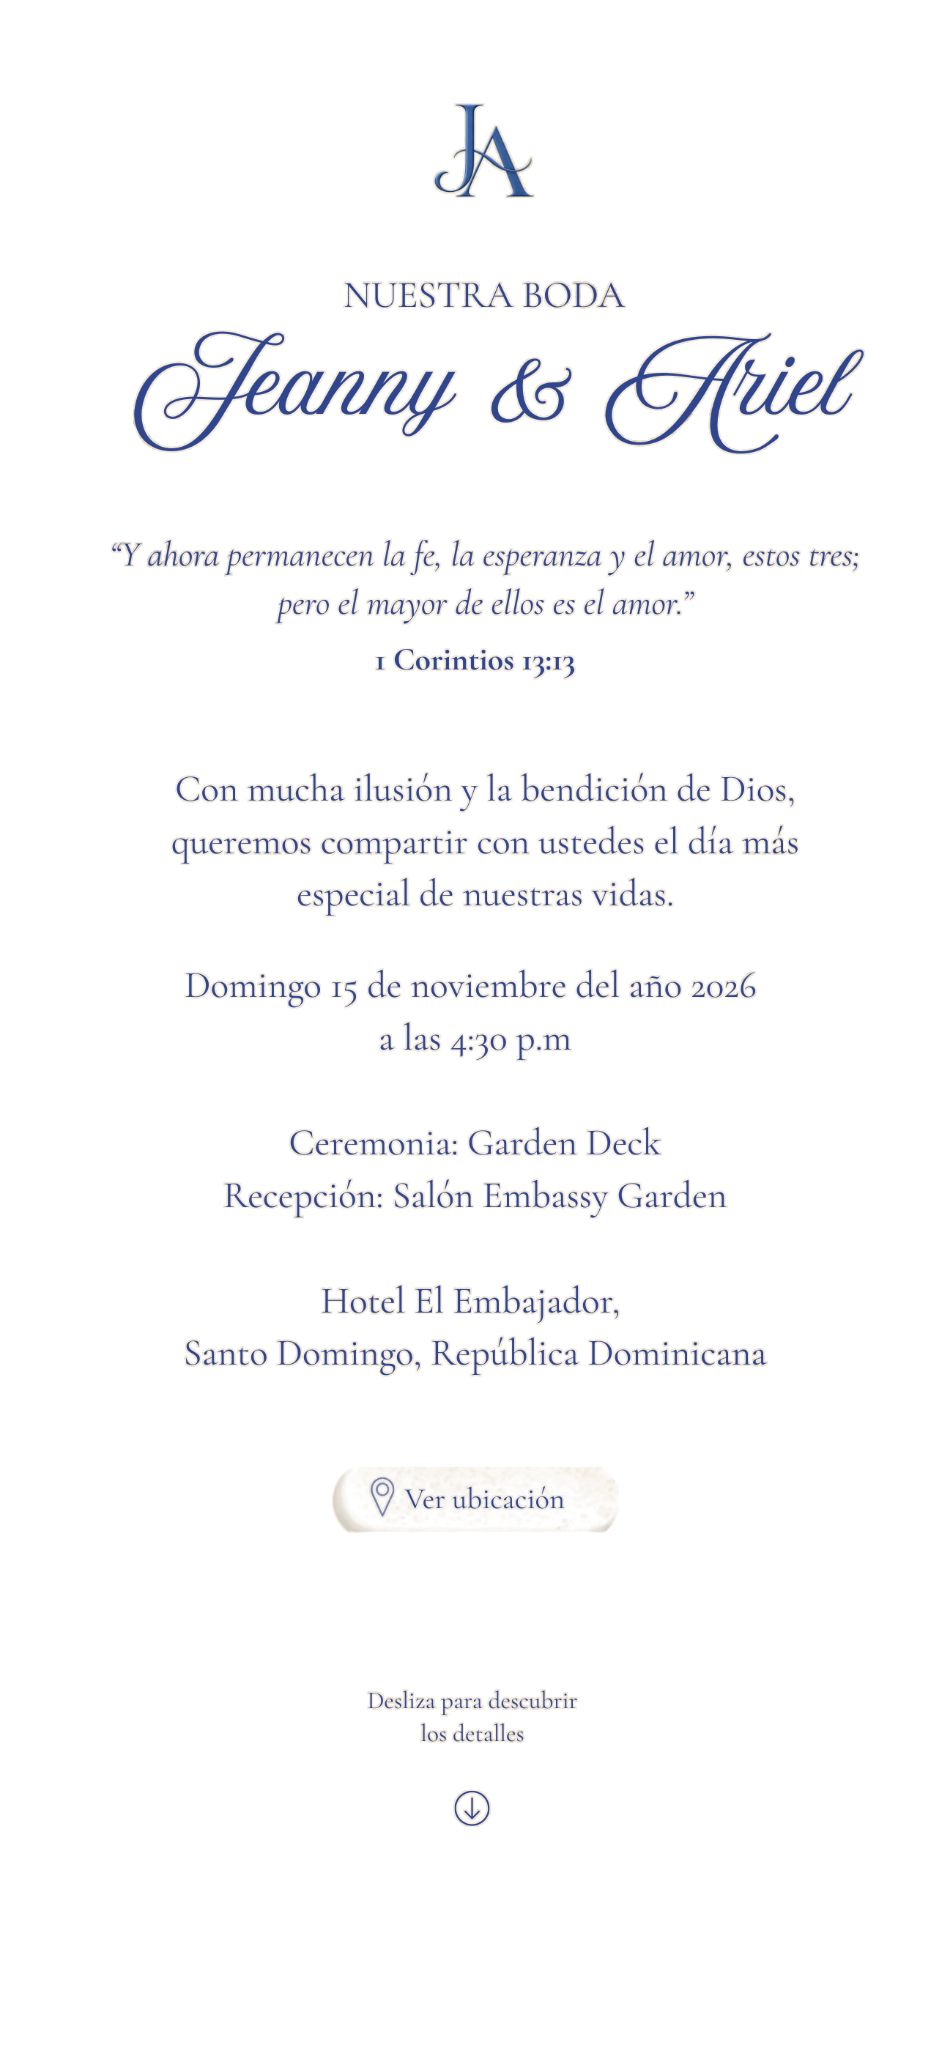
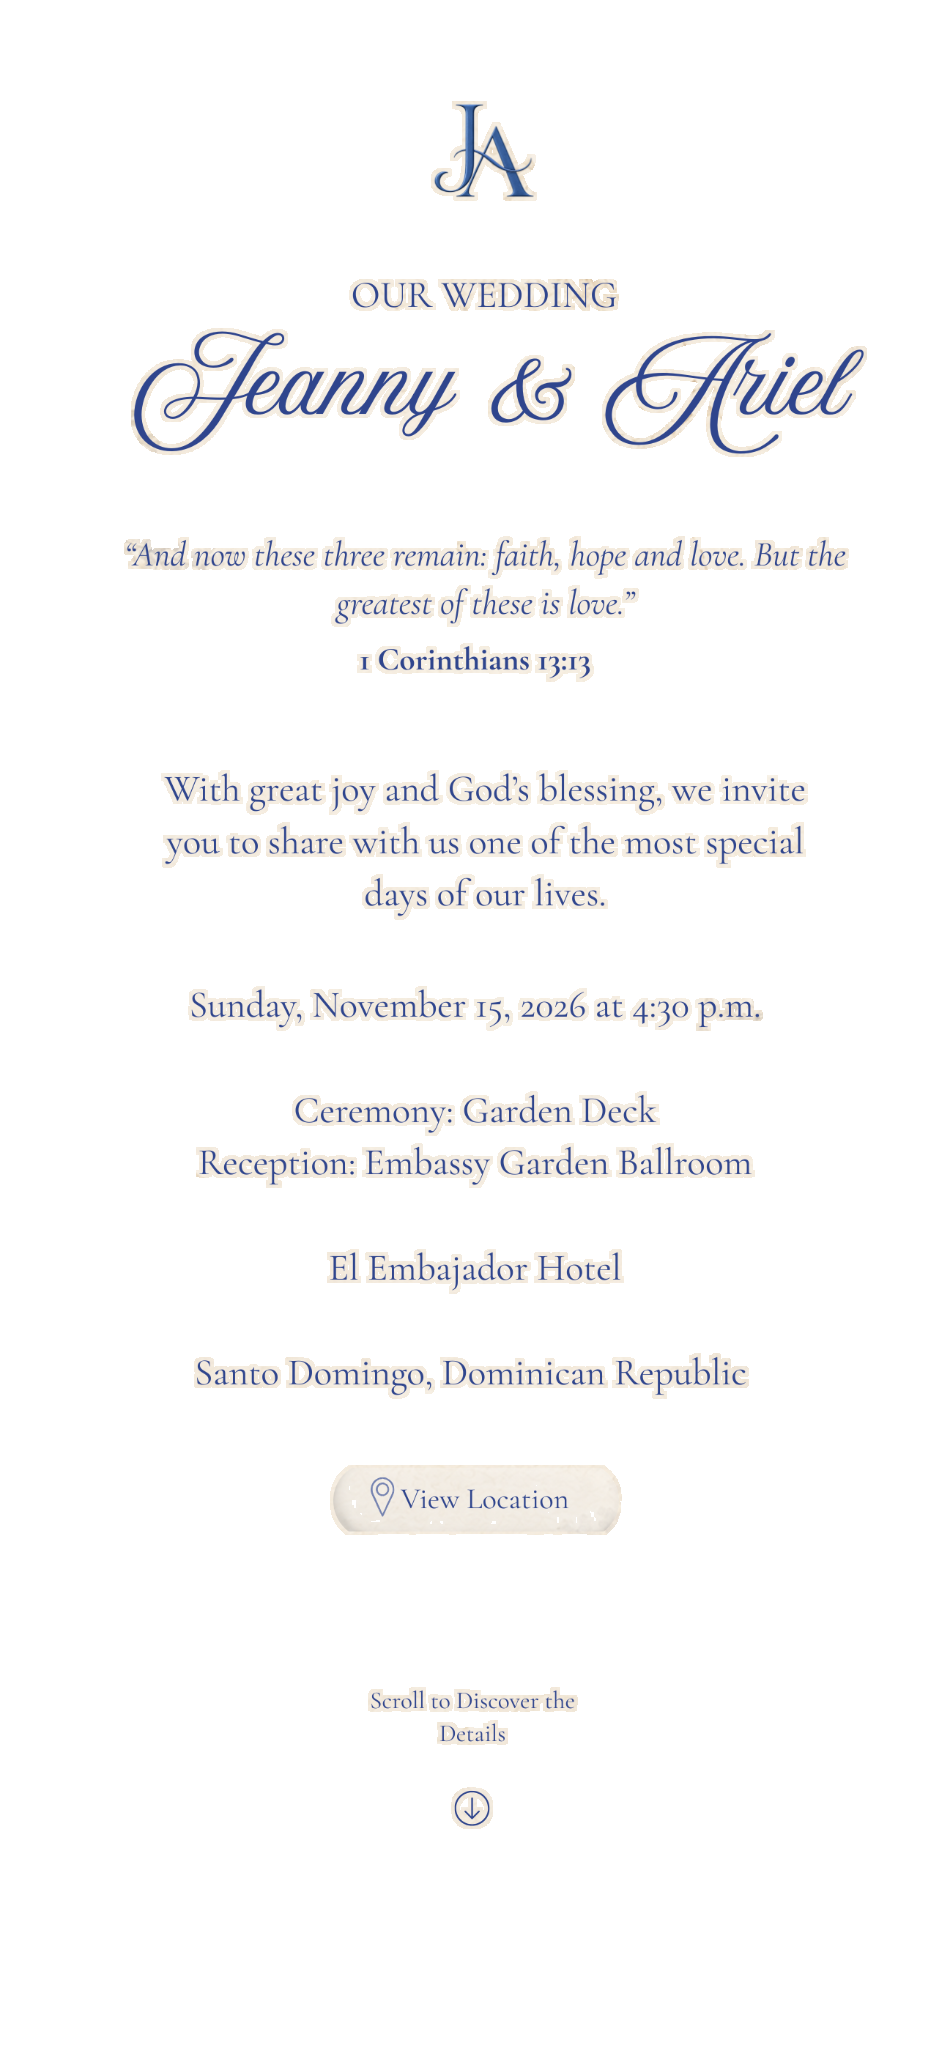
Add files via upload

diff --git a/index.html b/index.html
@@ -1,10 +1,15 @@
 <!doctype html>
-<html lang="es">
+<html lang="en">
 <head>
 <meta charset="utf-8">
 <meta name="viewport" content="width=device-width,initial-scale=1,viewport-fit=cover">
 <meta name="theme-color" content="#f7f1e7">
-<title>Jeanny & Ariel · V26</title>
+<title>Jeanny & Ariel · 15.11.2026</title>
+<meta name="description" content="Jeanny & Ariel · Wedding Invitation · November 15, 2026">
+<meta property="og:type" content="website">
+<meta property="og:title" content="Jeanny & Ariel · 15.11.2026">
+<meta property="og:description" content="Wedding Invitation · November 15, 2026">
+<meta property="og:url" content="https://portiaeventos.github.io/jeanny-ariel-wedding-invitation/">
 <style>
 :root{--max:944px}
 *{box-sizing:border-box}
@@ -70,6 +75,12 @@ body.locked{overflow:hidden}
 .p5-amazon{clip-path:inset(47% 15% 36% 15%)}
 .p5-adults{clip-path:inset(61% 15% 23% 15%)}
 
+/* V24 effect from page 3 onward: one soft reveal for the complete text/art overlay.
+   V32 clean backgrounds and full-page dimensions remain unchanged, so nothing is clipped. */
+.v24-reveal{position:absolute;inset:0;z-index:5;pointer-events:none;opacity:.18;transform:translateY(18px) scale(.992);filter:blur(1.5px);transition:opacity 1.05s ease,transform 1.2s cubic-bezier(.2,.7,.25,1),filter .8s ease;will-change:opacity,transform,filter}
+.v24-reveal img{position:absolute;inset:0;width:100%;height:100%;object-fit:cover}
+.v24-reveal.show{opacity:1;transform:translateY(0) scale(1);filter:blur(0)}
+
 /* clickable areas */
 .hotspot{position:absolute;z-index:30;display:block;border:0;background:transparent;border-radius:999px;cursor:pointer;touch-action:manipulation;-webkit-tap-highlight-color:transparent}
 #openBtn{left:28%;top:52%;width:44%;height:12%}
@@ -113,7 +124,7 @@ body.locked{overflow:hidden}
 <audio id="music" preload="auto" loop playsinline webkit-playsinline>
   <source src="assets/musica.mp3" type="audio/mpeg">
 </audio>
-<button class="audio-toggle" id="audioToggle" aria-label="Silenciar música">♪</button>
+<button class="audio-toggle" id="audioToggle" aria-label="Mute music">♪</button>
 
 <div class="cover" id="cover">
   <div class="cover-stage">
@@ -123,7 +134,7 @@ body.locked{overflow:hidden}
     </div>
     <div class="door-half door-left"><img src="assets/01-portada-completa.png" alt=""></div>
     <div class="door-half door-right"><img src="assets/01-portada-completa.png" alt=""></div>
-    <button class="hotspot" id="openBtn" aria-label="Toca para abrir"></button>
+    <button class="hotspot" id="openBtn" aria-label="Tap to open"></button>
   </div>
 </div>
 
@@ -135,43 +146,28 @@ body.locked{overflow:hidden}
     <div class="layer p2-names fade-up"><img src="assets/02-texto.png" alt=""></div>
     <div class="layer p2-date fade-in"><img src="assets/02-texto.png" alt=""></div>
     <div class="layer p2-scroll fade-up"><img src="assets/02-texto.png" alt=""></div>
-    <button class="hotspot" id="scroll-details" aria-label="Desliza para descubrir"></button>
+    <button class="hotspot" id="scroll-details" aria-label="Scroll to discover"></button>
   </section>
 
   <section class="page" id="p3">
     <img class="bg" src="assets/03-fondo.png" alt="">
-    <div class="layer p3-head soft-pop"><img src="assets/03-texto.png" alt=""></div>
-    <div class="layer p3-intro fade-up"><img src="assets/03-texto.png" alt=""></div>
-    <div class="layer p3-date slide-left"><img src="assets/03-texto.png" alt=""></div>
-    <div class="layer p3-ceremony slide-right"><img src="assets/03-texto.png" alt=""></div>
-    <div class="layer p3-locationtext fade-up"><img src="assets/03-texto.png" alt=""></div>
-    <div class="layer p3-buttons fade-in"><img src="assets/03-texto.png" alt=""></div>
-    <a class="hotspot" id="location" href="https://maps.app.goo.gl/bXNYkKEkYui6yCsP8?g_st=ic" target="_blank" rel="noopener noreferrer" aria-label="Ver ubicación"></a>
-    <button class="hotspot" id="scroll-dress" aria-label="Desliza para descubrir los detalles"></button>
+    <div class="v24-reveal"><img src="assets/03-texto.png" alt=""></div>
+    <a class="hotspot" id="location" href="https://maps.app.goo.gl/bXNYkKEkYui6yCsP8?g_st=ic" target="_blank" rel="noopener noreferrer" aria-label="View Location"></a>
+    <button class="hotspot" id="scroll-dress" aria-label="Scroll to discover the details"></button>
   </section>
 
   <section class="page" id="p4">
     <img class="bg" src="assets/04-fondo.png" alt="">
-    <div class="layer p4-head soft-pop"><img src="assets/04-texto.png" alt=""></div>
-    <div class="layer p4-women-text fade-up"><img src="assets/04-texto.png" alt=""></div>
-    <div class="layer p4-women-art slide-left"><img src="assets/04-texto.png" alt=""></div>
-    <div class="layer p4-women-btn fade-in"><img src="assets/04-texto.png" alt=""></div>
-    <div class="layer p4-men-text fade-up"><img src="assets/04-texto.png" alt=""></div>
-    <div class="layer p4-men-art slide-right"><img src="assets/04-texto.png" alt=""></div>
-    <div class="layer p4-men-btn fade-in"><img src="assets/04-texto.png" alt=""></div>
-    <a class="hotspot" id="dress-women" href="https://www.pinterest.com/turtle_uv94/code-dress-girls/?invite_code=2acb87ba884a4c9c999840964b3e6c9f&sender=549931941906887975" target="_blank" rel="noopener noreferrer"></a>
-    <a class="hotspot" id="dress-men" href="https://www.pinterest.com/turtle_uv94/code-dress-boys/?invite_code=ddfad047927e46b4bc0679652ee8c017&sender=549931941906887975" target="_blank" rel="noopener noreferrer"></a>
+    <div class="v24-reveal"><img src="assets/04-texto.png" alt=""></div>
+    <a class="hotspot" id="dress-women" href="https://www.pinterest.com/turtle_uv94/code-dress-girls/?invite_code=2acb87ba884a4c9c999840964b3e6c9f&sender=549931941906887975" target="_blank" rel="noopener noreferrer" aria-label="View inspiration for her"></a>
+    <a class="hotspot" id="dress-men" href="https://www.pinterest.com/turtle_uv94/code-dress-boys/?invite_code=ddfad047927e46b4bc0679652ee8c017&sender=549931941906887975" target="_blank" rel="noopener noreferrer" aria-label="View inspiration for him"></a>
   </section>
 
   <section class="page" id="p5">
     <img class="bg" src="assets/05-fondo.png" alt="">
-    <div class="layer p5-head soft-pop"><img src="assets/05-texto.png" alt=""></div>
-    <div class="layer p5-intro fade-up"><img src="assets/05-texto.png" alt=""></div>
-    <div class="layer p5-casa slide-left"><img src="assets/05-texto.png" alt=""></div>
-    <div class="layer p5-amazon slide-right"><img src="assets/05-texto.png" alt=""></div>
-    <div class="layer p5-adults fade-up"><img src="assets/05-texto.png" alt=""></div>
-    <a class="hotspot" id="casa-cuesta" href="https://listaderegalos.casacuesta.com/Event/Jeanny-Ariel?utm_source=share" target="_blank" rel="noopener noreferrer"></a>
-    <a class="hotspot" id="amazon" href="https://www.amazon.com/wedding/guest-view/SKL6AKIKFPXG" target="_blank" rel="noopener noreferrer"></a>
+    <div class="v24-reveal"><img src="assets/05-texto.png" alt=""></div>
+    <a class="hotspot" id="casa-cuesta" href="https://listaderegalos.casacuesta.com/Event/Jeanny-Ariel?utm_source=share" target="_blank" rel="noopener noreferrer" aria-label="View Casa Cuesta registry"></a>
+    <a class="hotspot" id="amazon" href="https://www.amazon.com/wedding/guest-view/SKL6AKIKFPXG" target="_blank" rel="noopener noreferrer" aria-label="View Amazon registry"></a>
   </section>
 
 </main>
@@ -245,32 +241,27 @@ audioToggle.addEventListener('pointerup', ()=>{
 document.getElementById('scroll-details').addEventListener('click',()=>document.getElementById('p3').scrollIntoView({behavior:'smooth'}));
 document.getElementById('scroll-dress').addEventListener('click',()=>document.getElementById('p4').scrollIntoView({behavior:'smooth'}));
 
-/* Mobile-safe scroll reveal */
+/* V24 reveal behavior from page 3 onward */
 const sections = [...document.querySelectorAll('#p3,#p4,#p5')];
-const sectionLayers = new Map(sections.map(s=>[s,[...s.querySelectorAll('.layer')]]));
-
 function showSection(section){
   if(section.dataset.shown) return;
   section.dataset.shown='1';
-  const layers = sectionLayers.get(section);
-  layers.forEach((el,i)=>setTimeout(()=>el.classList.add('show'), i*170));
+  const overlay=section.querySelector('.v24-reveal');
+  if(overlay) overlay.classList.add('show');
 }
 
 if('IntersectionObserver' in window){
   const io = new IntersectionObserver(entries=>{
     entries.forEach(entry=>{
-      if(entry.isIntersecting) showSection(entry.target);
+      if(entry.isIntersecting){ showSection(entry.target); io.unobserve(entry.target); }
     });
-  }, {threshold:0.12, rootMargin:'0px 0px -8% 0px'});
+  }, {threshold:0.16, rootMargin:'0px 0px -8% 0px'});
   sections.forEach(s=>io.observe(s));
 }else{
-  /* fallback for older mobile browsers */
-  const fallback = ()=>{
-    sections.forEach(s=>{
-      const r=s.getBoundingClientRect();
-      if(r.top < innerHeight*.90 && r.bottom > 0) showSection(s);
-    });
-  };
+  const fallback=()=>sections.forEach(s=>{
+    const r=s.getBoundingClientRect();
+    if(r.top<innerHeight*.92 && r.bottom>0) showSection(s);
+  });
   addEventListener('scroll',fallback,{passive:true});
   fallback();
 }
